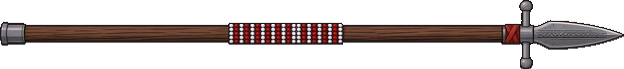
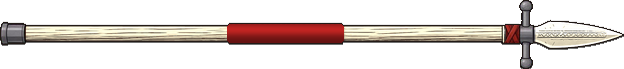
Pathfinder Spear in ivoor met een creme punt en een rode greep
Ook met de nieuwe rand leek hij in de vlucht op de gewone speer. Het script
kleurt de Grok-plaat nu per stuk om, met het licht en de schaduw van het
origineel: de schacht ivoor, het blad creme en de greep effen rood in plaats
van de rood-witte kralen. Dop, dwarsstuk, bandje en vaantje blijven gelijk.

Claude-Session: https://claude.ai/code/session_01XPDva66oZd9Cc6ZT46Gy4S

Changed region(s): [[0.0304, 0.3478, 0.8221, 0.6377], [0.8526, 0.3188, 1.0, 0.6957]]

diff --git a/tools/pathfinder_speer.py b/tools/pathfinder_speer.py
@@ -57,6 +57,35 @@ def rand(im):
 
 sp = Image.open(os.path.join(BRON, 'speer.png')).convert('RGBA')
 sp = sp.crop(sp.getbbox())
+
+# De kleuren (22-11-2026, op verzoek): een schacht van ivoor, een creme punt en een helemaal rode greep in plaats van
+# de rood-witte kralen. Per stuk wordt de bron omgekleurd met zijn eigen licht en schaduw, de donkere omlijning blijft.
+IVOOR = (226, 212, 180)      # de schacht
+CREME = (246, 234, 204)      # het blad van de punt
+ROOD = (168, 32, 30)         # de greep
+BLAD = 1058                  # waar het blad begint, in px van bron/speer.png (na het dwarsstuk en de huls)
+
+def kleur(a, x0, x1, doel, glad=False):
+    d = a[:, x0:x1].astype(float)
+    m = d[..., 3] > 128
+    lum = d[..., :3].mean(-1)
+    ref = np.median(lum[m])
+    r = np.clip(lum / ref, 0.45, 1.25)
+    if glad:                 # een gladde ronde greep: licht van boven, donker naar onder, de kralen vallen weg
+        ys = np.where(m.any(1))[0]; t = (np.arange(len(lum)) - ys[0]) / max(1, ys[-1] - ys[0])
+        r = np.repeat((0.6 + 0.55 * np.exp(-((t - 0.32) / 0.3) ** 2))[:, None], lum.shape[1], 1)
+    rand = m & (d[..., :3].mean(-1) < ref * 0.35)        # de omlijning houdt zijn donker
+    if glad: rand[:] = False                             # de greep: ook de lijntjes tussen de kralen weg (rand() legt de buitenlijn)
+    for c in range(3):
+        k = d[..., c]; k[m & ~rand] = np.clip(doel[c] * r, 0, 255)[m & ~rand]
+    a[:, x0:x1] = d.astype(np.uint8)
+
+_a = np.array(sp)
+kleur(_a, 75, 385, IVOOR)
+kleur(_a, 722, 968, IVOOR)
+kleur(_a, 385, 722, ROOD, glad=True)
+kleur(_a, BLAD, _a.shape[1], CREME)
+sp = Image.fromarray(_a)
 a0 = np.array(sp)[..., 3] > 128
 dik = int(a0[:, (GREEP[1] + KOP) // 2].sum())        # de dikte van de schacht in de bron
 s = SCHACHT / dik

diff --git a/notities/speer.md b/notities/speer.md
@@ -109,6 +109,11 @@ speer op: een dekkende donkere lijn om het hele silhouet (`RAND_LIJN`), boven ee
 zachte schaduw (`RAND_SCHADUW`), dezelfde waarden als in `speer_projectiel.png`. De punt wordt gemeten zonder die schaduw,
 dus `PATHFINDER` bleef gelijk.
 
+De kleuren (22-11-2026, op verzoek): ook met de rand bleef hij in de vlucht op een gewone speer lijken (bruine schacht,
+rood vlekje bij de kop). `pathfinder_speer.py` (`kleur`) kleurt de bron nu per stuk om met zijn eigen licht en schaduw: de
+schacht ivoor (`IVOOR`), het blad creme (`CREME`, vanaf `BLAD`) en de greep effen rood (`ROOD`, een gladde ronding in plaats
+van de rood-witte kralen). Dop, dwarsstuk, bandje en vaantje blijven zoals ze waren.
+
 - **De soort.** `SPEER_SOORTEN.pathfinder`, in het veld van het vaantje (`speerBlauw`, `rugSperen[].blauw`, `jav.blauw`,
   `losseSperen[].blauw`). Je koopt er een per speerplek (`koop.pathfinder` telt, `pfAantal`; in de sandbox de knop: een).
   `pfStap` maakt elk beeld zoveel gewone speren die je draagt Pathfinder-speren als je er bezit min wat er al is (`pfTel`:
